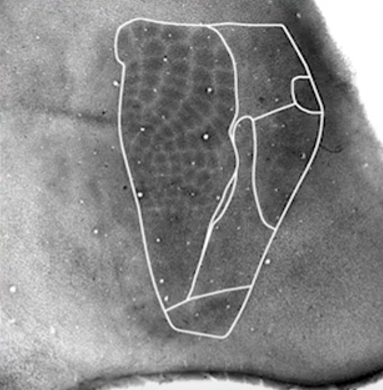
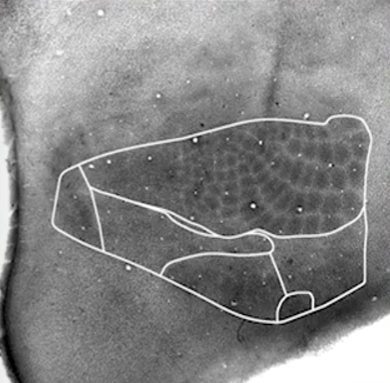
research

diff --git a/docs/index.html b/docs/index.html
@@ -127,7 +127,9 @@ ul.task-list li input[type="checkbox"] {
   </div>
 </header><main class="content" id="quarto-document-content">
 <p>I am broadly interested in how and why organisms respond to their environment. My long-term career goal is to lead a research lab integrating physiological ecology with developmental psychobiology to untangle the proximate mechanisms and ultimate implications of plasticity across development. I work under a <a href="https://deltacenter.uiowa.edu/developmental-systems">developmental systems framework</a>, which means I approach development as a life-long process resulting from complex interactions between genes, tissue, social environment, broader climate, and more. My undergraduate research projects utilized techniques in behavior and neuroscience to examine how motor-related gene knockout affected development of mouse grooming behavior and sensorimotor cortex over five early ages. My graduate work joins physiological ecology with my advisor’s expertise in social behavior to examine the developmental and activational impact of increasing temperature on parenting behavior and its development, using methods in neuroethology and transcriptomics to investigate developmental drivers of social behavior and provide insight into the complex and multidirectional ways environments and individuals interact.</p>
-<p>Research topics of interest: thermoregulation, neuroendocrinology, animal behavior, physiological ecology, developmental psychobiology</p>
+<p>Research topics of interest:</p>
+<p>thermoregulation, neuroendocrinology, animal behavior, physiological ecology, developmental psychobiology</p>
+<p>To do: - add research blurbs + publications list - add illustrations and crochet patterns</p>
 
 
 </main> 
